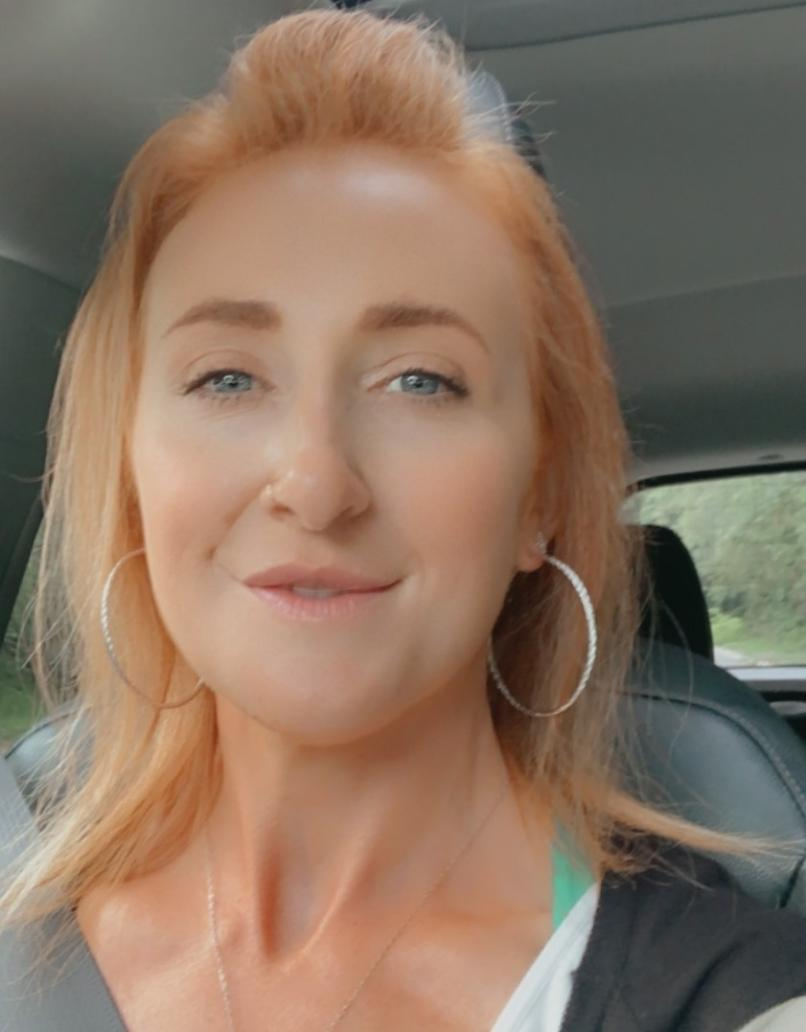
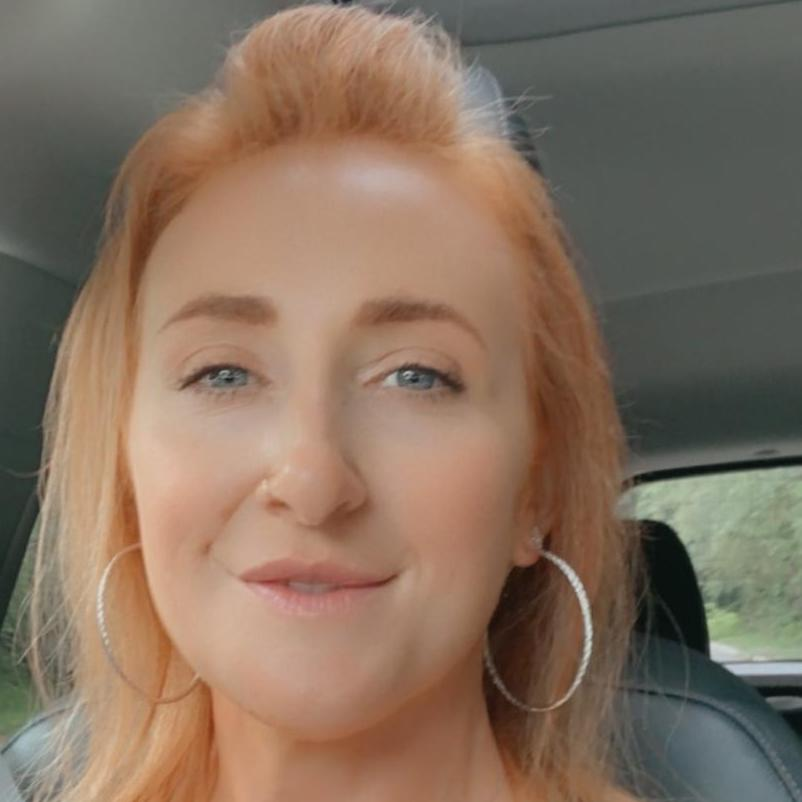
edited menu image size, text color, images for bios

diff --git a/index.html b/index.html
@@ -95,11 +95,8 @@ html {
         }   
 
 .menu-image {
-    width: 100%;
-    height: auto;
-    /* Magic! */
-    max-width: 15vw;
-    max-height: 3vw;
+    width: 14vw;
+    height: 3vw;
   }
 
 .menu-logo {
@@ -107,6 +104,9 @@ html {
     height: auto;
     max-width: 3vw;
     max-height: 2vw;
+    justify-content: center;
+    align-items: center;
+    image-resolution: 600dpi;
   }
 
 .bio-img{
@@ -162,18 +162,17 @@ html {
   <div class="container4" id="mint" style="padding-bottom: 20px;">
     <p>Minting coming soon!!!</p>
   </div>
-  <img src="image/Roadmap.jpg" alt="Roadmap" id="roadmap" class="midimg" />
+  <img src="image/Roadmap.jpg" alt="Roadmap" id="roadmap" class="bigimg" />
   <!-- Add in boxes for spaceing/structure here with the texts-->
   <div class="container5" id="ourstory"> 
     
     <p style="padding-bottom: 20px; font-size: 200%;">The Story</p>
-    <p style="padding-bottom: 40px;">Lynn and Jane are like a lot of teen girls their age: they are doing their best at school, they love listening to music, and they spend time connecting with friends and family on social media.
+    <p style="padding-bottom: 40px; color: black;">Lynn and Jane are like a lot of teen girls their age: they are doing their best at school, they love listening to music, and they spend time connecting with friends and family on social media.
     Lynn expresses her artistic talents with a deep devotion to calligraphy, while Jane is a highly talented visual artist who excels in soft pencil sketching. Both young ladies are also devoted anime and manga enthusiasts, just like their father.
     a parent, Kenneth felt it was his responsibility to directly enable access for his daughters to contribute and build a better world, one where they are empowered to make their own free choices.
     As Kenneth watched his daughters grow up and mature, there was sincere concern about the world they were entering. The world just did not seem as safe as his own late 20th century childhood. It is certainly not as innocent and equitable as most socially conscious parents would like it to be.
     True gender equality, where men and women have equal power and identical opportunities for financial independence, education, and personal development should be basic universal rights. The new world opened by NFTs and crypto philanthropy is one where girls can grow up and become women who are recognized and respected for who they are, for what they have already accomplished, for their commitment to their aspirations and future endeavours, and to feel empowered to speak out on the issues for which they have strong convictions.</p>
-    <img src="image/Fam2.jpg" alt="Family2" class="bigimg" />
-    <img src="image/Fam3.jpg" alt="Family3" class="bigimg" />
+    <img src="image/Fam1.jpg" alt="Family1" class="bigimg" />
   </div>
       <table>
         <thead>
